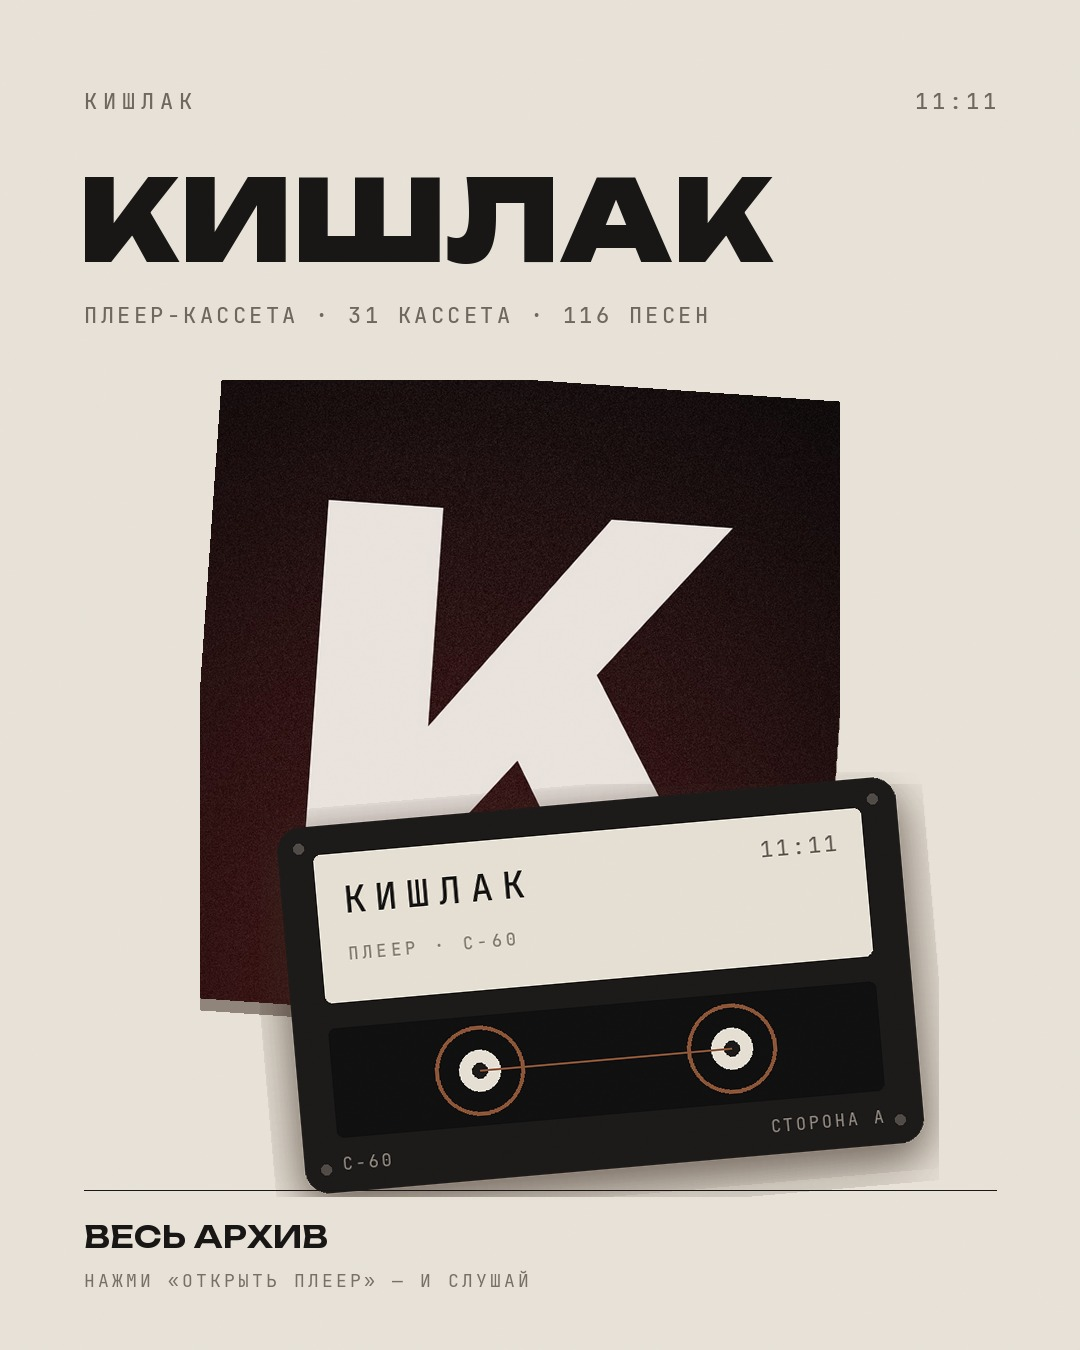
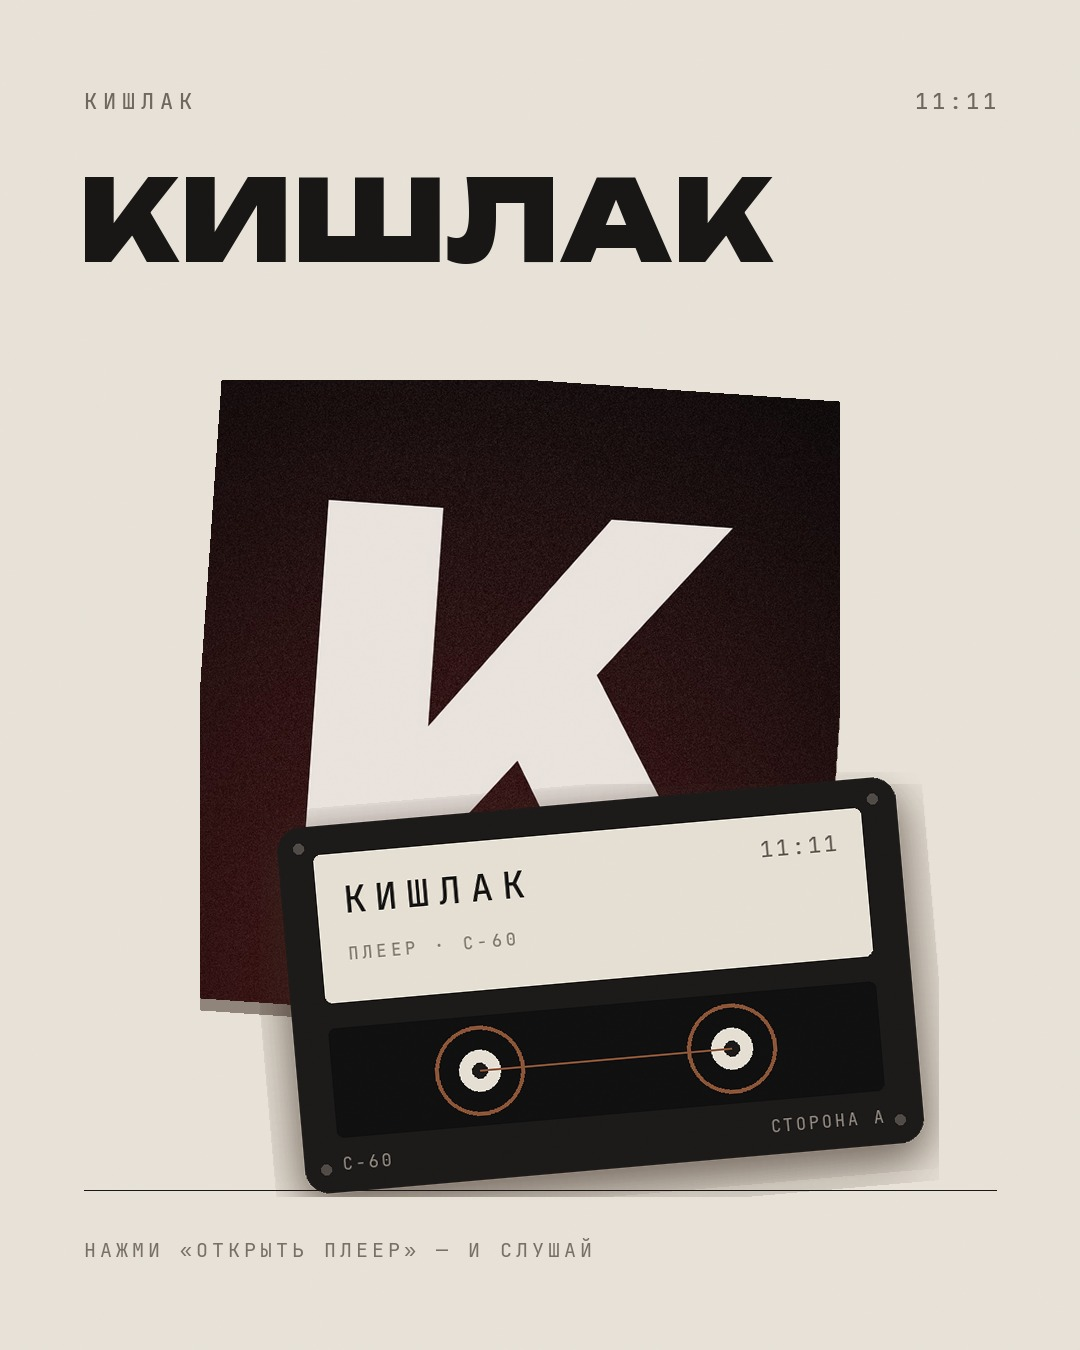
design(bot): с карточки убраны счётчики и «весь архив», осталась одна строка; фото с версией в URL

diff --git a/functions/api/bot.ts b/functions/api/bot.ts
@@ -11,7 +11,7 @@ import { CHANNEL_URL, isSubscribed } from '../_lib/channel'
 type Env = { BOT_TOKEN: string }
 
 const APP_URL = 'https://kishlak-tg.pages.dev'
-const WELCOME_IMAGE = `${APP_URL}/bot/welcome.jpg`
+const WELCOME_IMAGE = `${APP_URL}/bot/welcome.jpg?v=2`
 
 const WELCOME_TEXT = [
   '<b>Весь Кишлак в одном месте</b>',

diff --git a/design/bot/make_channel_avatar.py b/design/bot/make_channel_avatar.py
@@ -1,0 +1,90 @@
+"""Аватар канала «Аф» — 512×512, в палитре приложения."""
+import os
+from PIL import Image, ImageDraw, ImageFont, ImageFilter
+
+PAPER = (237, 231, 220)
+INK = (19, 18, 17)
+CREAM = (241, 237, 230)
+COPPER = (140, 83, 52)
+DIM = (150, 142, 132)
+DARK = (11, 11, 12)
+
+ROOT = os.path.dirname(os.path.dirname(os.path.dirname(os.path.abspath(__file__))))
+A = os.path.join(ROOT, 'design', 'assets')
+OUT = os.path.join(ROOT, 'design', 'bot')
+
+
+def fnt(name, size, variation=None):
+    f = ImageFont.truetype(os.path.join(A, name), size)
+    if variation:
+        f.set_variation_by_name(variation)
+    return f
+
+
+def tracked(d, xy, text, f, fill, tr=0):
+    x, y = xy
+    for ch in text:
+        d.text((x, y), ch, font=f, fill=fill)
+        x += d.textlength(ch, font=f) + tr
+
+
+def tw(d, text, f, tr=0):
+    return sum(d.textlength(c, font=f) for c in text) + tr * max(0, len(text) - 1)
+
+
+def grain(img, amount=8, alpha=.045):
+    w, h = img.size
+    n = Image.effect_noise((w, h), amount).convert('L').filter(ImageFilter.GaussianBlur(.6))
+    return Image.blend(img, Image.merge('RGB', (n, n, n)), alpha)
+
+
+def centered(d, text, f, fill, cy):
+    box = d.textbbox((0, 0), text, font=f)
+    w = box[2] - box[0]
+    h = box[3] - box[1]
+    d.text(((512 - w) / 2 - box[0], cy - h / 2 - box[1]), text, font=f, fill=fill)
+
+
+def base(bg):
+    return Image.new('RGB', (512, 512), bg)
+
+
+def variant_a():
+    img = base(PAPER)
+    d = ImageDraw.Draw(img)
+    centered(d, 'Аф', fnt('unbounded.ttf', 190, 'Black'), INK, 238)
+    d.ellipse([253, 358, 259, 364], fill=COPPER)
+    f = fnt('jbmono-medium.ttf', 15)
+    w = tw(d, '11:11', f, 4)
+    tracked(d, ((512 - w) / 2, 384), '11:11', f, (120, 112, 102), 4)
+    return grain(img)
+
+
+def variant_b():
+    img = base(PAPER)
+    d = ImageDraw.Draw(img)
+    d.ellipse([48, 48, 464, 464], outline=(160, 151, 140), width=2)
+    centered(d, 'Аф', fnt('unbounded.ttf', 158, 'Black'), INK, 244)
+    f = fnt('jbmono-medium.ttf', 14)
+    w = tw(d, '11:11', f, 5)
+    tracked(d, ((512 - w) / 2, 372), '11:11', f, (120, 112, 102), 5)
+    return grain(img)
+
+
+def variant_c():
+    img = base(DARK)
+    d = ImageDraw.Draw(img)
+    centered(d, 'Аф', fnt('unbounded.ttf', 190, 'Black'), CREAM, 238)
+    d.ellipse([253, 358, 259, 364], fill=COPPER)
+    f = fnt('jbmono-medium.ttf', 15)
+    w = tw(d, '11:11', f, 4)
+    tracked(d, ((512 - w) / 2, 384), '11:11', f, (150, 142, 132), 4)
+    return grain(img)
+
+
+if __name__ == '__main__':
+    for name, img in [('channel-a', variant_a()), ('channel-b', variant_b()), ('channel-c', variant_c())]:
+        img.save(os.path.join(OUT, f'{name}.png'))
+        img.save(os.path.join(OUT, f'{name}.jpg'), quality=94)
+        img.resize((64, 64), Image.LANCZOS).save(os.path.join(OUT, f'{name}-64.png'))
+    print('ok')

diff --git a/design/bot/make_assets.py b/design/bot/make_assets.py
@@ -177,8 +177,6 @@ def welcome():
 
     ft = fnt('unbounded.ttf', 112, 'Black')
     d.text((m - 6, 150), 'КИШЛАК', font=ft, fill=INK)
-    fs = fnt('jbmono-medium.ttf', 22)
-    tracked(d, (m, 300), 'ПЛЕЕР-КАССЕТА · 31 КАССЕТА · 116 ПЕСЕН', fs, (110, 103, 94), 3.5)
 
     # конверт и кассета
     sleeve = Image.new('RGBA', (640, 640), (0, 0, 0, 0))
@@ -188,10 +186,8 @@ def welcome():
     paste_center(img, cass, 600, 985, angle=5, shadow_alpha=.45)
 
     d.line([m, 1190, W - m, 1190], fill=(19, 18, 17, 60), width=1)
-    fw = fnt('unbounded.ttf', 30, 'SemiBold')
-    d.text((m, 1218), 'ВЕСЬ АРХИВ', font=fw, fill=INK)
-    fe = fnt('jbmono-regular.ttf', 18)
-    tracked(d, (m, 1268), 'НАЖМИ «ОТКРЫТЬ ПЛЕЕР» — И СЛУШАЙ', fe, (120, 112, 102), 3)
+    fe = fnt('jbmono-regular.ttf', 20)
+    tracked(d, (m, 1236), 'НАЖМИ «ОТКРЫТЬ ПЛЕЕР» — И СЛУШАЙ', fe, (120, 112, 102), 4)
     grain(img.convert('RGB'), 9, .05).save(f'{OUT}/welcome-1080x1350.jpg', quality=92)
 
 
